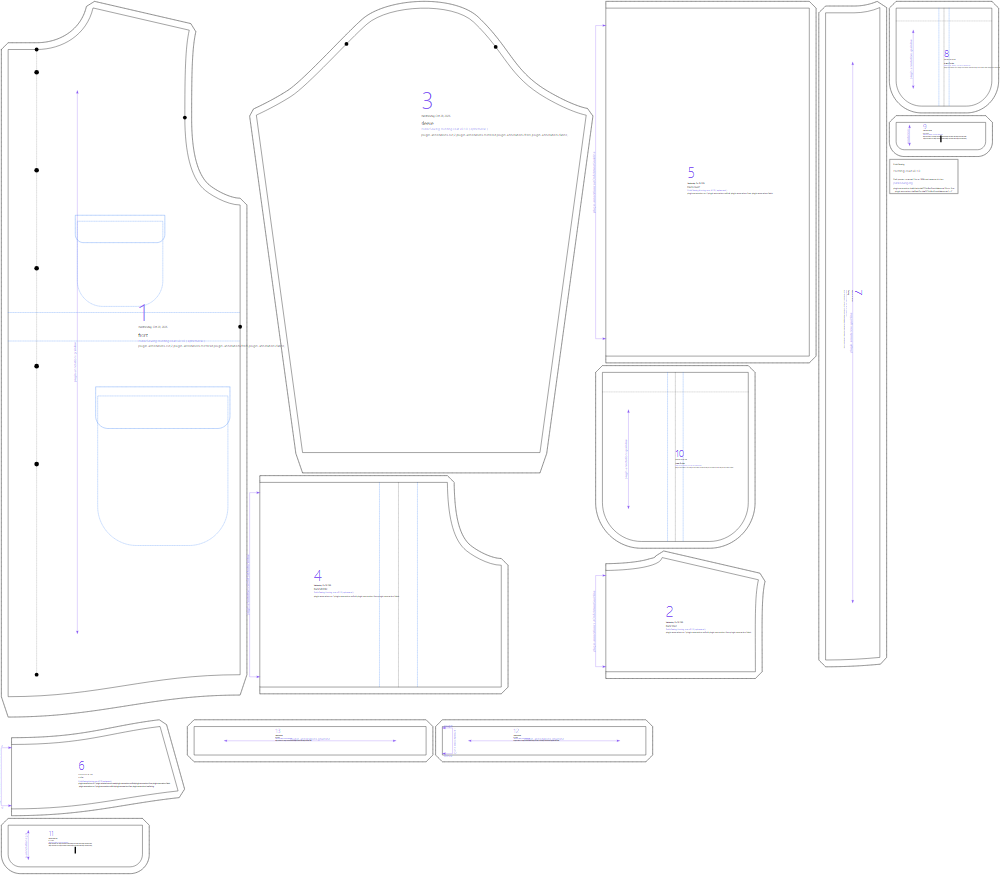
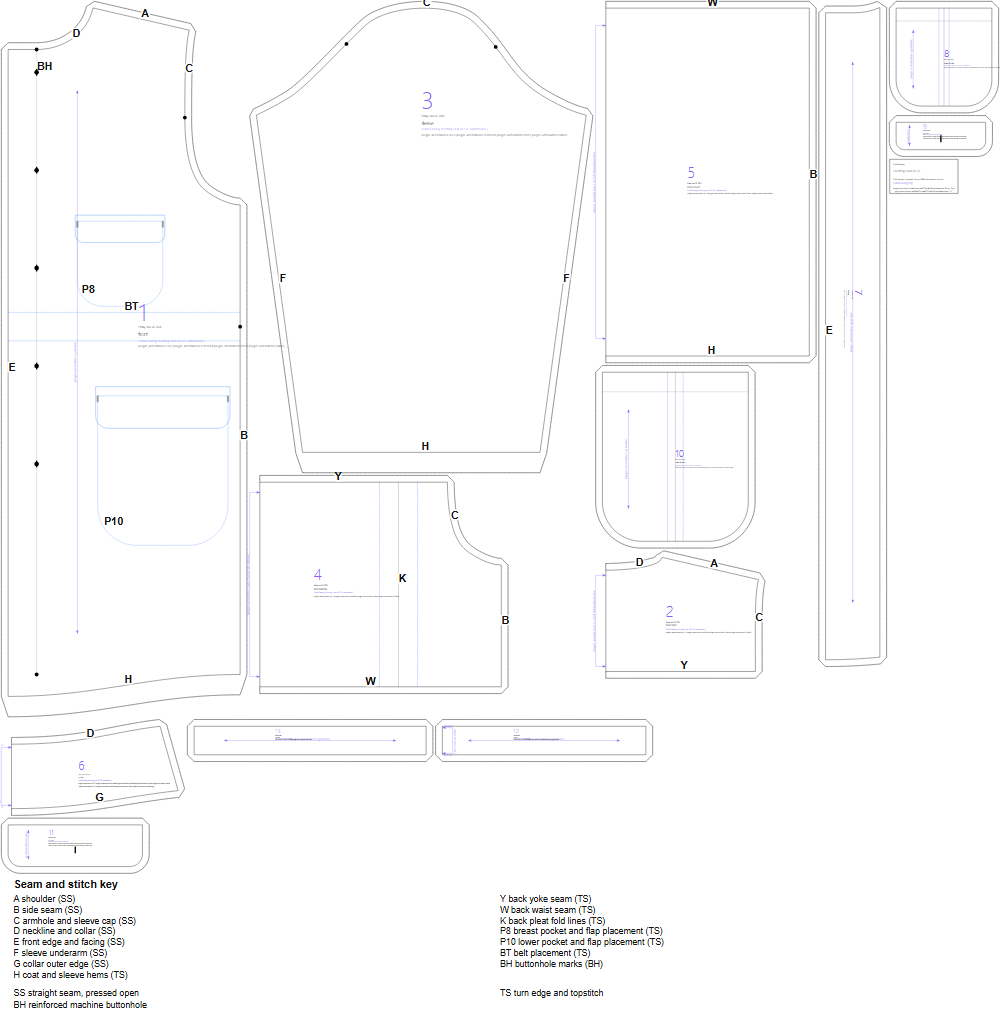
Map the hunting coat: yoke, pleated middle and lower back panels
Buttonhole marks are now drafted; the Norfolk jacket opts out of the
inherited map until mapped itself.

diff --git a/designs/hunting-coat/BRIEF.md b/designs/hunting-coat/BRIEF.md
@@ -51,15 +51,17 @@ The geometry is the work coat's, so this design shares its body and collar rules
 - **Pocket tops level.**
 
 ## Construction (our words)
-1. Pockets: fold and press the box pleat (outer lines to the centre line), baste across top
-   and bottom, hem the top. Make the flaps and buttonholes.
-2. Sew the pockets and flaps on the fronts.
-3. Back: fold the inverted pleat in the middle panel (outer lines to the centre), baste top
-   and bottom. Sew the yoke to the middle panel, then the middle panel to the lower back.
-   Topstitch.
-4. Shoulders and side seams. Sew the belt round the body at the marks, covering the back's
-   waist seam.
-5. Collar, facings, sleeves and hems as for the chore coat.
+Letters are the seam and placement codes on the pattern map; numbers are printed on the pieces. **SS** straight seam pressed open, **TS** topstitch close to a turned edge or seam, **BH** reinforced machine buttonhole.
+
+1. Pockets **8** and **10**: fold and press the box pleat (outer lines to the centre line), baste across top and bottom and hem the top. Make the flaps **9** and **11** and their buttonholes.
+2. Use **TS** to sew the pockets **8**, **10** and their flaps **9**, **11** to the fronts **1** at marks **P8** and **P10**.
+3. Back: fold the inverted pleat **K** in the middle panel **4** (outer lines to the centre) and baste it top and bottom. Sew the yoke **2** to the middle panel at **Y**, then the middle panel to the lower back **5** at **W**, and topstitch both with **TS**.
+4. Join the fronts **1** to the back yoke **2** at the shoulders **A**, and to the middle **4** and lower back **5** at the side seams **B**, with **SS**.
+5. Make the belts **12** and **13** and use **TS** to sew the belt round the body at the marks **BT** on the fronts **1**, covering the back's waist seam.
+6. Join the collar **6** along its outer edge **G**, turn it and set it to the neckline **D** of the fronts **1** and yoke **2**; sew the facings **7** to the front edges **E**, all with **SS**.
+7. Close each sleeve **3** at the underarm **F** and set it into the armhole **C** of the front **1**, yoke **2** and middle back **4** with **SS**.
+8. Turn up the hems of the fronts **1**, lower back **5** and sleeves **3** and topstitch them along **H** with **TS**.
+9. Work the **BH** buttonholes on the right front **1** and sew the buttons at the marked centres.
 
 ## Checks the tests run
 `test/hunting-coat.test.mjs` runs two option sets (default; no belt, flaps or pleats, with
